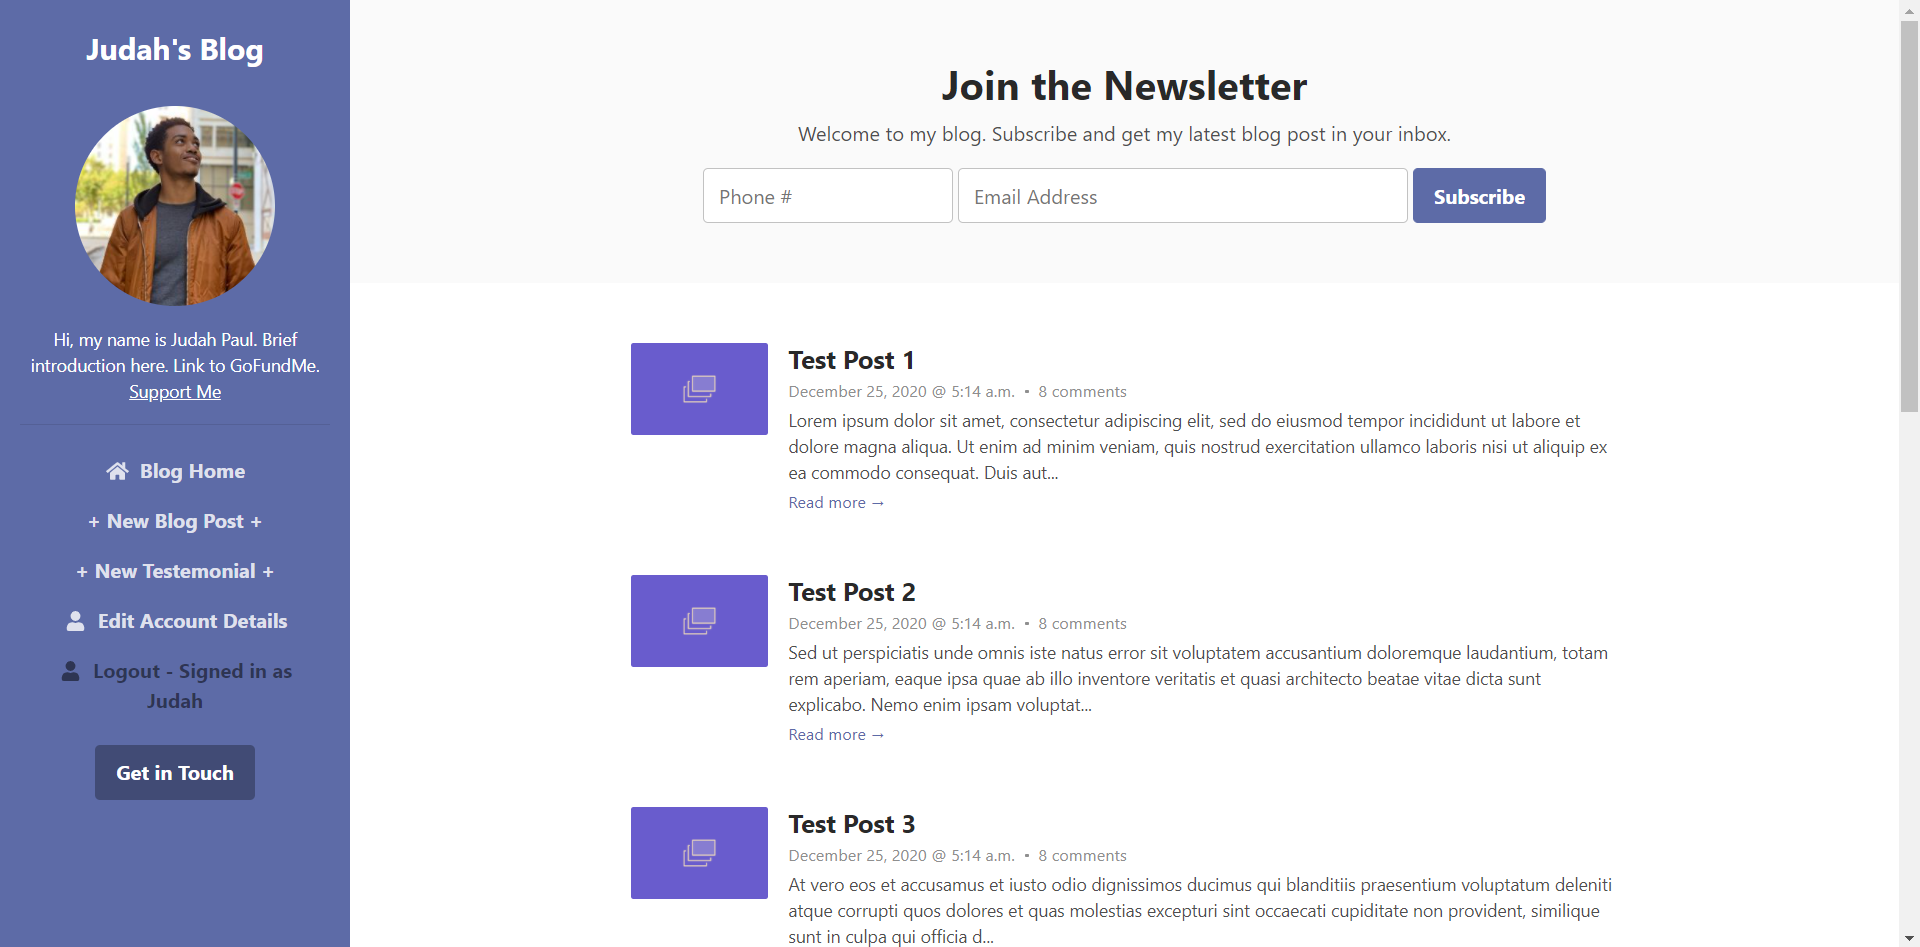
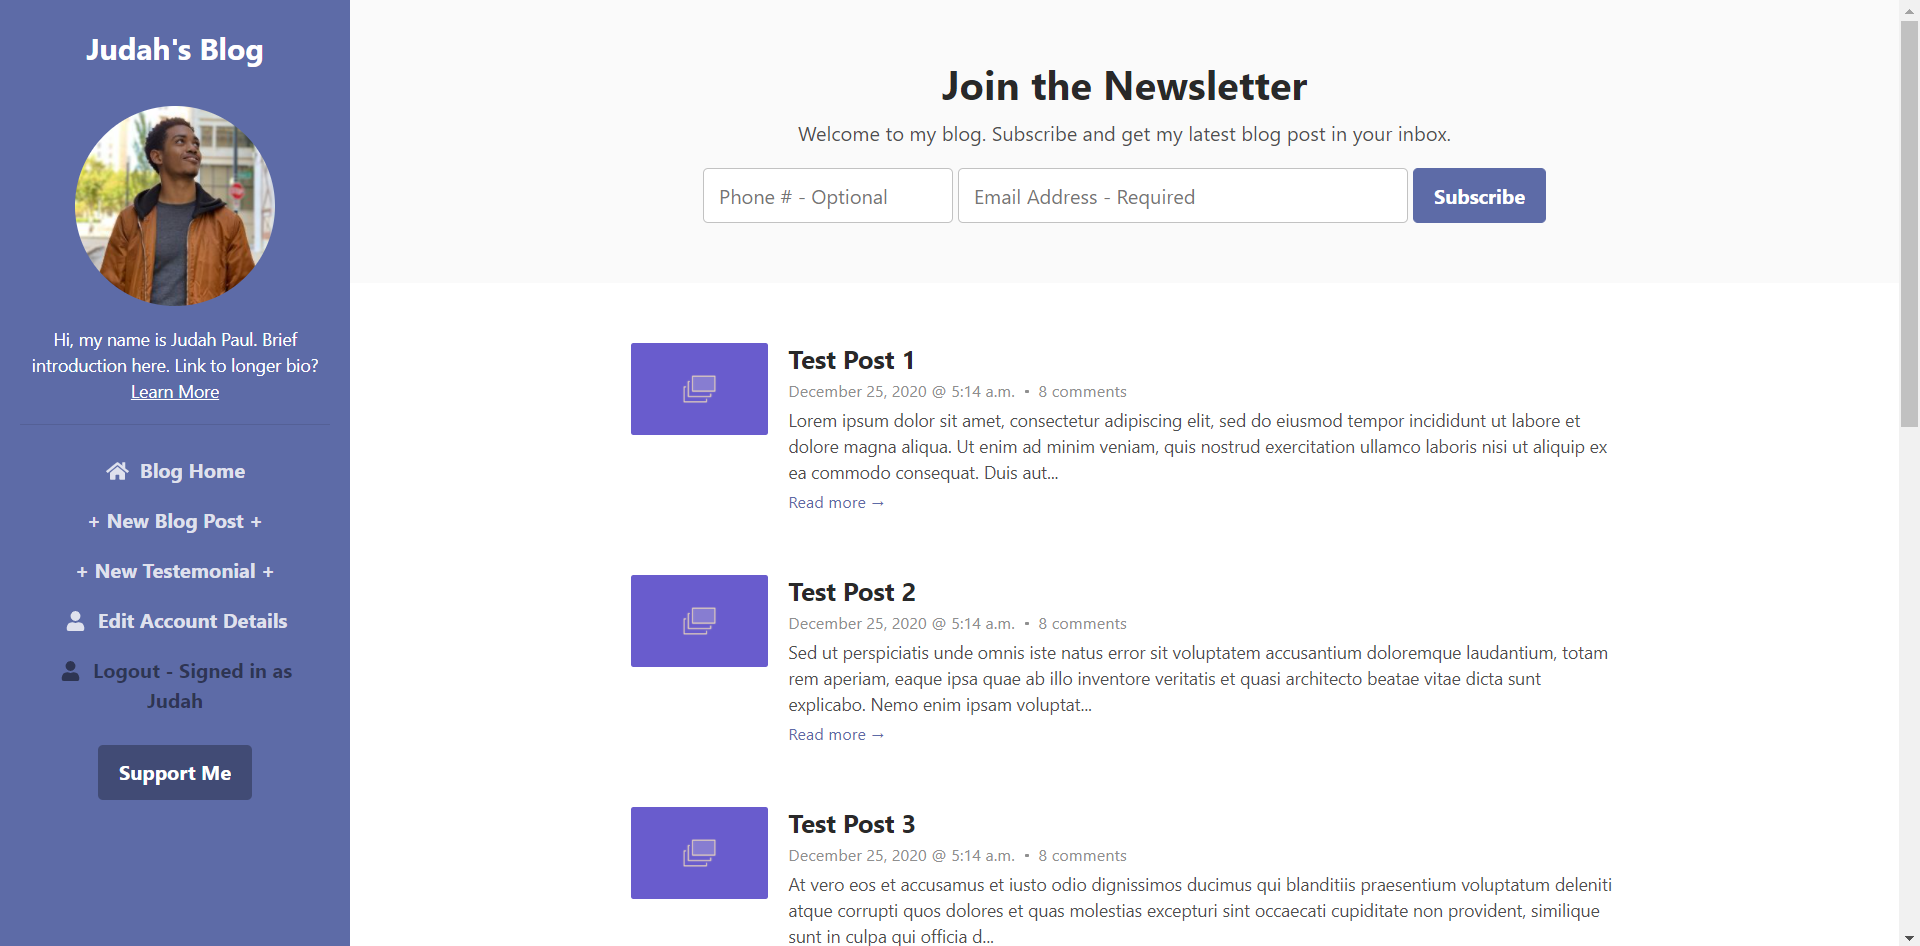
Tweaks

diff --git a/one_pager/templates/testemonial.html b/one_pager/templates/testemonial.html
@@ -1,37 +1,36 @@
 {% block testemonial %}
 <section style="margin: 10px auto; display:block">
     <style>
-        .container1 {
+        .container2 {
         border: 2px solid #ccc;
-        background-color: #eee;
         border-radius: 5px;
-        padding: 25px;
-        margin: 25px 25px;
+        padding: 15px;
+        margin: 15px 225px;
         }
 
-        .container1::after {
+        .container2::after {
         content: "";
         clear: both;
         display: table;
         }
 
-        .container1 img {
+        .container2 img {
         float: left;
         margin-right: 20px;
         border-radius: 50%;
         }
 
-        .container1 span {
+        .container2 span {
         font-size: 20px;
         margin-right: 15px;
         }
 
         @media (max-width: 500px) {
-        .container1 {
+        .container2 {
             text-align: center;
         }
 
-        .container1 img {
+        .container2 img {
             margin: auto;
             float: none;
             display: block;
@@ -41,7 +40,7 @@
 
     <h2 style="text-align: center; font-family: Arial;">Testemonials</h2>
     {% for testemonial in testemonials %}
-        <div class="container1">
+        <div class="container2 theme-bg-light">
             <img src="{{ testemonial.author.profile.image.url }}" alt="Avatar" style="width:90px">
             <p><span>{{ testemonial.author.first_name }} {{ testemonial.author.last_name }}</span>{{ testemonial.title }}</p>
             <p>{{ testemonial.content }}</p>

diff --git a/one_pager/templates/base.html b/one_pager/templates/base.html
@@ -36,7 +36,7 @@
 				<div class="profile-section pt-3 pt-lg-0">
 				    <img class="profile-image mb-3 rounded-circle mx-auto" src="{% static 'assets/images/default.jpg' %}" alt="image" >			
 					
-					<div class="bio mb-3">Hi, my name is Judah Paul. Brief introduction here. Link to GoFundMe.<br><a href="#">Support Me</a></div><!--//bio-->
+					<div class="bio mb-3">Hi, my name is Judah Paul. Brief introduction here. Link to longer bio?<br><a href="#">Learn More</a></div><!--//bio-->
 			        <hr> 
 				</div><!--//profile-section-->
 				
@@ -77,7 +77,7 @@
 				</ul>
 				
 				<div class="my-2 my-md-3">
-				    <a class="btn btn-primary" href="#" target="_blank">Get in Touch</a>
+				    <a class="btn btn-primary" href="#" target="_blank">Support Me</a>
 				</div>
 			</div>
 		</nav>
@@ -88,7 +88,7 @@
 
         {% endblock content %}
     
-        <footer class="footer text-center py-2 theme-bg-dark">
+        <footer class="footer text-center py-2 theme-bg-dark" style="margin-top: 50px;">
         
             <!--/* This template is released under the Creative Commons Attribution 3.0 License. Please keep the attribution link below when using for your own project. Thank you for your support. :) If you'd like to use the template without the attribution, you can buy the commercial license via our website: themes.3rdwavemedia.com */-->
                 <small class="copyright">Designed by <a href="#" target="_blank">Judah Paul</a></small>

diff --git a/one_pager/templates/index.html b/one_pager/templates/index.html
@@ -7,10 +7,11 @@
             <h2 class="heading">Join the Newsletter</h2>
             <div class="intro">Welcome to my blog. Subscribe and get my latest blog post in your inbox.</div>
             <form class="signup-form form-inline justify-content-center pt-3">
+                {% csrf_token %}
                 <div class="form-group">
                     <label class="sr-only" for="semail">Your email</label>
-                    <input type="tel" id="phone" name="phone" pattern="[0-9]{3}[0-9]{3}[0-9]{4}" class="form-control mr-md-1" style="max-width: 200px;" placeholder="Phone #" required>
-                    <input type="email" id="semail" name="semail1" class="form-control mr-md-1 semail" placeholder="Email Address" required>
+                    <input type="tel" id="phone" name="phone" pattern="[0-9]{3}[0-9]{3}[0-9]{4}" class="form-control mr-md-1" style="max-width: 200px;" placeholder="Phone # - Optional">
+                    <input type="email" id="semail" name="semail1" class="form-control mr-md-1 semail" placeholder="Email Address - Required" required>
                 </div>
                 <button type="submit" class="btn btn-primary">Subscribe</button>
             </form>

diff --git a/one_pager/templates/post_detail.html b/one_pager/templates/post_detail.html
@@ -74,10 +74,11 @@
         <h2 class="heading">Newsletter</h2>
         <div class="intro">Welcome to my blog. Subscribe and get my latest blog post in your inbox.</div>
         <form class="signup-form form-inline justify-content-center pt-3">
+            {% csrf_token %}
             <div class="form-group">
                 <label class="sr-only" for="semail">Your email</label>
-                <input type="tel" id="phone" name="phone" pattern="[+]{1}[0-9]{11,14}" class="form-control mr-md-1" style="max-width: 200px;" placeholder="Phone #" required>
-                <input type="email" id="semail" name="semail1" class="form-control mr-md-1 semail" placeholder="Email Address">
+                <input type="tel" id="phone" name="phone" pattern="[+]{1}[0-9]{11,14}" class="form-control mr-md-1" style="max-width: 200px;" placeholder="Phone # - Optional">
+                <input type="email" id="semail" name="semail1" class="form-control mr-md-1 semail" placeholder="Email Address - Required">
             </div>
             <button type="submit" class="btn btn-primary">Subscribe</button>
         </form>
